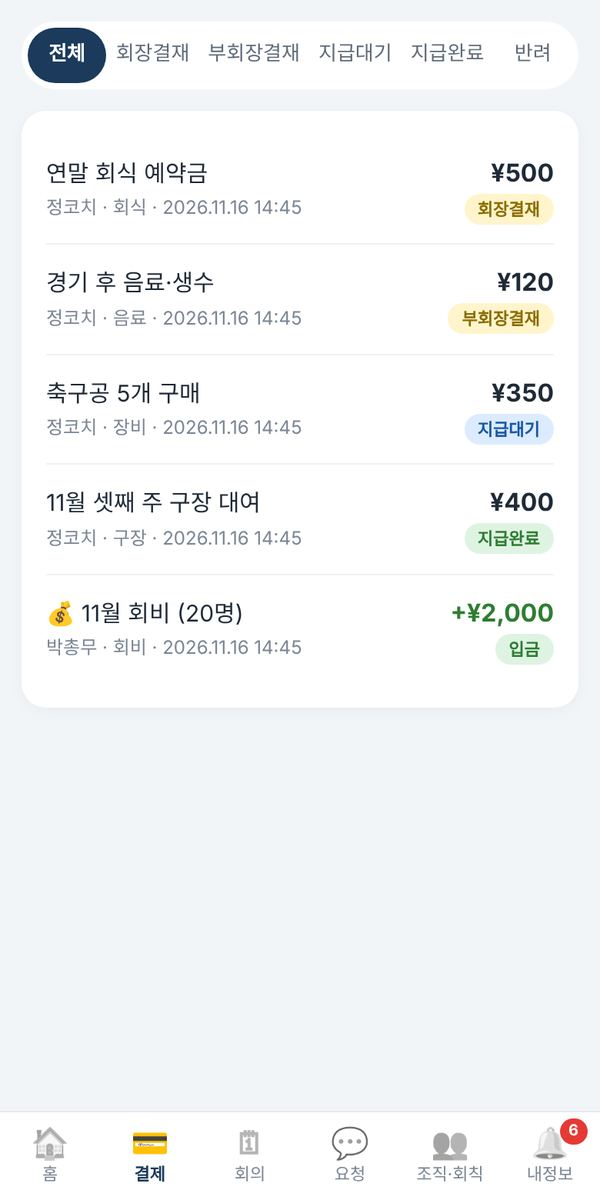
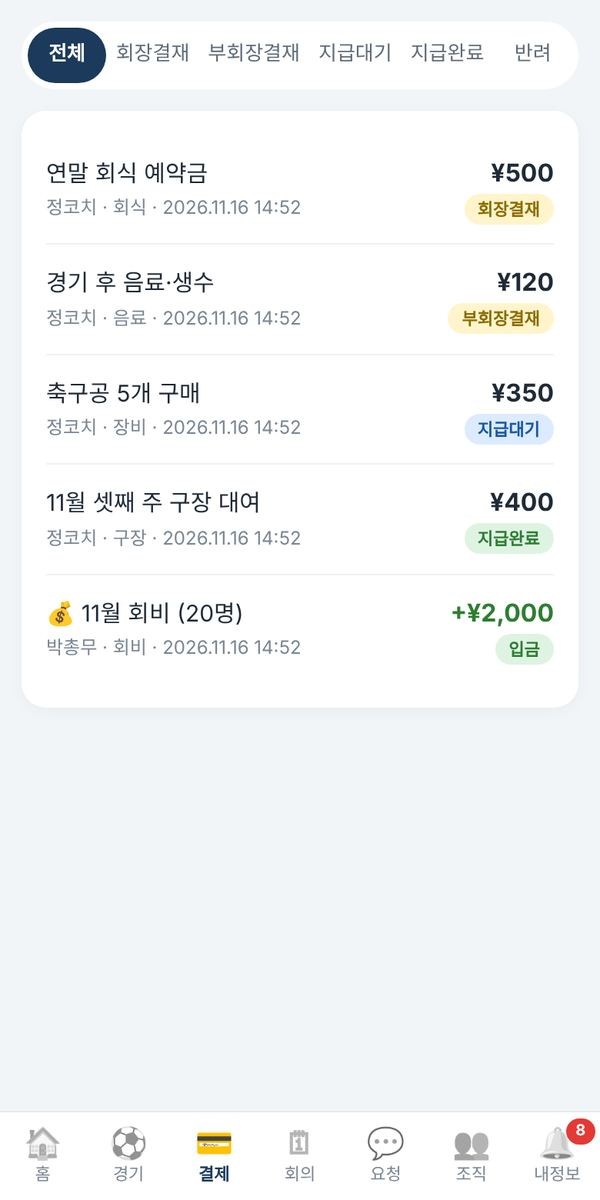
경기 일정·출석 체크, 고덕지도 위치 링크, 설명서 갱신
Claude-Session: https://claude.ai/code/session_015HE4XVwfqT5PtJWveADa8Y

diff --git a/index.html b/index.html
@@ -82,10 +82,11 @@ nav a.on{color:var(--navy);font-weight:700}nav a.on b{filter:none;opacity:1}
 <div id="app"></div>
 <nav id="nav" style="display:none"><div class="in">
   <a href="#/" data-t="home"><b>🏠</b>홈</a>
+  <a href="#/matches" data-t="match"><b>⚽</b>경기</a>
   <a href="#/pays" data-t="pay"><b>💳</b>결제</a>
   <a href="#/meets" data-t="meet"><b>🗓</b>회의</a>
   <a href="#/reqs" data-t="req"><b>💬</b>요청</a>
-  <a href="#/org" data-t="org"><b>👥</b>조직·회칙</a>
+  <a href="#/org" data-t="org"><b>👥</b>조직</a>
   <a href="#/me" data-t="me"><b>🔔</b>내정보<span class="badge" id="badge" style="display:none"></span></a>
 </div></nav>
 <div id="toast"></div>
@@ -100,7 +101,7 @@ const esc = s => String(s ?? '').replace(/[&<>"']/g, c => ({'&':'&amp;','<':'&lt
 const yen = n => '¥' + Number(n || 0).toLocaleString();
 const LS = { get(k){ try { return localStorage.getItem(k) } catch(e){ return null } },
              set(k,v){ try { v == null ? localStorage.removeItem(k) : localStorage.setItem(k,v) } catch(e){} } };
-const CLS = { 부회장검토:'wait', 회장결재:'wait', 부회장결재:'wait', 지급대기:'ok', 승인:'ok', 지급완료:'done', 반려:'no', 접수:'wait', 처리중:'ok', 완료:'done' };
+const CLS = { 참석:'done', 불참:'no', 미정:'wait', 부회장검토:'wait', 회장결재:'wait', 부회장결재:'wait', 지급대기:'ok', 승인:'ok', 지급완료:'done', 반려:'no', 접수:'wait', 처리중:'ok', 완료:'done' };
 const STAFF = ['회장','부회장','총무','감독','코치'];
 const isStaff = () => ME && STAFF.includes(ME.role);
 const tag = s => `<span class="tag t-${CLS[s]||'wait'}">${esc(s)}</span>`;
@@ -210,6 +211,10 @@ async function home(){
       <div class="hl">현재 잔액</div><div class="ht">${yen(h.income - h.spend)}</div>
       <div class="hr"><span>총 수입 ${yen(h.income)}</span><span>총 지출 ${yen(h.spend)}</span></div></div>
     ${h.notice ? card('📢 공지', `<div class="txt">${esc(h.notice)}</div>`) : ''}
+    ${h.next ? card('⚽ 다음 경기', `<a class="it" href="#/match/${h.next.id}"><div class="grow"><b>${esc(h.next.title)}${h.next.opponent ? ' vs ' + esc(h.next.opponent) : ''}</b>
+        <div class="sub">${fdt(h.next.starts_at)} · ${esc(h.next.venue || '구장 미정')} · ${esc(h.next.format)}</div>
+        <div class="sub">참석 <b style="color:${h.next.yes >= h.next.need ? '#2E7D32' : '#B3261E'}">${h.next.yes}</b> / 필요 ${h.next.need}명</div></div>
+        ${h.next.mine ? tag(h.next.mine) : '<span class="tag t-wait">출석 체크 ›</span>'}</a>`) : ''}
     ${h.polls.length ? card('🗳 진행 중인 투표', h.polls.map(v => `<a class="it" href="#/vote/${v.id}"><div class="grow">${esc(v.title)}${v.deadline ? `<div class="sub">마감 ${fdt(v.deadline)}</div>` : ''}</div>${v.voted ? '<span class="tag t-done">투표 완료</span>' : '<span class="tag t-wait">투표하기 ›</span>'}</a>`).join('')) : ''}
     ${h.todo.length ? card('✅ 내가 처리할 일', h.todo.map(t => `<a class="it" href="#/${t.kind}/${t.id}"><div class="grow">${esc(t.title)}</div>${tag(t.status)}</a>`).join('')) : ''}
     ${card('🗓 최근 확정 회의', h.meets.map(m => `<a class="it" href="#/meet/${m.id}"><div class="grow">${esc(m.title)}<div class="sub">${esc(m.mdate||'')}</div></div><span class="link">보기 ›</span></a>`).join('') || empty('아직 확정된 회의가 없습니다'))}
@@ -374,6 +379,81 @@ async function meetAct(id, act){
   await api('meetAct', { id, act, comment }); toast('처리 완료'); meetDetail(id);
 }
 
+// ───── 경기 일정 · 출석 체크 ─────
+const FORMATS = [['11인제',11],['9인제',9],['8인제',8],['7인제',7],['6인제',6],['5인제 (풋살)',5],['기타',0]];
+const WD = ['일','월','화','수','목','금','토'];
+const mapUrl = m => m.map_url || `https://uri.amap.com/search?keyword=${encodeURIComponent((m.venue + ' ' + (m.address||'')).trim())}&src=wxfc&callnative=1`;
+const dateBox = s => { const d = new Date(s); return `<div class="date"><div class="dm">${d.getMonth()+1}월 (${WD[d.getDay()]})</div><div class="dd">${d.getDate()}</div></div>` };
+const hm = s => { const d = new Date(s); return String(d.getHours()).padStart(2,'0') + ':' + String(d.getMinutes()).padStart(2,'0') };
+async function matchesPage(){
+  const r = await api('matches'), up = r.list.filter(m => !m.past), past = r.list.filter(m => m.past);
+  const row = m => `<a class="card" style="display:flex;gap:12px;align-items:center" href="#/match/${m.id}">${dateBox(m.starts_at)}
+      <div class="grow"><div style="font-weight:700">${esc(m.title)}${m.opponent ? ' vs ' + esc(m.opponent) : ''}</div>
+      <div class="sub">${hm(m.starts_at)} · ${esc(m.venue || '구장 미정')} · ${esc(m.format)}</div>
+      <div class="sub">참석 <b style="color:${m.yes >= m.need ? '#2E7D32' : '#B3261E'}">${m.yes}</b> / ${m.need}명</div></div>
+      ${m.mine ? tag(m.mine) : m.past ? '' : '<span class="tag t-wait">체크 ›</span>'}</a>`;
+  V(`${up.map(row).join('') || empty('예정된 경기가 없습니다')}
+    ${past.length ? `<div class="ct" style="margin:20px 4px 10px;color:#7A8694">지난 경기</div>${past.map(row).join('')}` : ''}
+    ${isStaff() ? '<div class="fabs"><a class="fab" href="#/match/new">+ 경기 등록</a></div>' : ''}`);
+}
+async function matchForm(id){
+  if(!isStaff()) { toast('운영진만 경기를 등록할 수 있습니다'); return location.replace('#/matches') }
+  const vs = (await api('matches')).venues;
+  const m = id ? (await api('match', { id:+id })).m : { title:'정기 경기', format:'11인제', need:11 };
+  const loc = s => { if(!s) return ''; const d = new Date(s); return new Date(d - d.getTimezoneOffset()*6e4).toISOString().slice(0,16) };
+  V(`<div class="card"><div class="ct">${id ? '✏ 경기 수정' : '⚽ 경기 등록'}</div>
+    <label>경기 이름</label><input id="gt" value="${esc(m.title)}" placeholder="예) 정기 경기, 친선전">
+    <label>상대팀 (선택)</label><input id="go" value="${esc(m.opponent||'')}" placeholder="예) ○○FC">
+    <label>날짜·시작 시간</label><input id="gs" type="datetime-local" value="${loc(m.starts_at)}">
+    <label>경기 방식</label><select id="gf">${FORMATS.map(([f]) => `<option ${m.format==f?'selected':''}>${f}</option>`).join('')}</select>
+    <label>필요 인원 (명)</label><input id="gn" type="number" inputmode="numeric" value="${m.need}">
+    <label>구장 이름</label><input id="gv" list="vl" value="${esc(m.venue||'')}" placeholder="예) ○○체육공원 축구장">
+    <datalist id="vl">${vs.map(v => `<option value="${esc(v.venue)}">`).join('')}</datalist>
+    <label>주소 (선택)</label><input id="ga" value="${esc(m.address||'')}" placeholder="예) ○○구 ○○로 123">
+    <label>고덕지도 공유 링크 (선택)</label><input id="gm" value="${esc(m.map_url||'')}" placeholder="고덕지도 앱 → 장소 → 공유 → 링크 복사">
+    <div class="hint" style="margin:-4px 0 10px">링크를 비워 두면 구장 이름·주소로 고덕지도에서 자동 검색됩니다.</div>
+    <label>출석 체크 마감 (선택, 비우면 경기 시작 때 마감)</label><input id="gd" type="datetime-local" value="${loc(m.deadline)}">
+    <label>메모 (선택)</label><textarea id="gx" style="min-height:80px" placeholder="예) 흰색·검은색 상의 준비, 8시 30분까지 도착">${esc(m.memo||'')}</textarea>
+    <button class="btn" id="gb">${id ? '수정 저장' : '등록하고 회원에게 알림'}</button></div>`);
+  $('#gf').onchange = e => { const f = FORMATS.find(x => x[0] == e.target.value); if(f && f[1]) $('#gn').value = f[1] };
+  $('#gv').onchange = e => { const v = vs.find(x => x.venue == e.target.value); if(v){ if(!$('#ga').value) $('#ga').value = v.address || ''; if(!$('#gm').value) $('#gm').value = v.map_url || '' } };
+  $('#gb').onclick = async e => {
+    const iso = v => v ? new Date(v).toISOString() : '';
+    if(!$('#gs').value) return toast('날짜·시간을 입력하세요');
+    e.target.disabled = true;
+    try { const r = await api('matchSave', { id: id || '', title:$('#gt').value.trim(), opponent:$('#go').value.trim(), starts_at:iso($('#gs').value),
+        format:$('#gf').value, need:$('#gn').value, venue:$('#gv').value.trim(), address:$('#ga').value.trim(), map_url:$('#gm').value.trim(),
+        deadline:iso($('#gd').value), memo:$('#gx').value });
+      toast(id ? '수정했습니다' : '경기를 등록했습니다'); location.replace('#/match/' + r.id) } catch(x){ e.target.disabled = false }
+  };
+}
+async function matchDetail(id){
+  const r = await api('match', { id:+id }), m = r.m;
+  if(!m) return V(empty('없는 경기입니다'));
+  const by = s => r.att.filter(a => a.status == s).map(a => a.name);
+  const yes = by('참석'), no = by('불참'), maybe = by('미정'), short = m.need - yes.length;
+  const d = new Date(m.starts_at), pc = m.need ? Math.min(100, Math.round(yes.length * 100 / m.need)) : 0;
+  const B = (s, c) => `<button class="btn ${r.mine == s ? c : 'b-ghost'}" style="flex:1;margin:0;${r.mine == s ? '' : 'opacity:.85'}" onclick="doAttend(${m.id},'${s}')">${r.mine == s ? '✅ ' : ''}${s}</button>`;
+  const chips = (t, a) => `<div class="sub" style="margin:10px 0 6px"><b>${t} ${a.length}명</b></div><div class="chips">${a.map(n => `<span class="chip">${esc(n)}</span>`).join('') || '<span class="sub">-</span>'}</div>`;
+  V(`<div class="hero"><div class="hs">${d.getFullYear()}.${d.getMonth()+1}.${d.getDate()} (${WD[d.getDay()]}) ${hm(m.starts_at)}</div>
+      <div class="ht" style="font-size:22px">${esc(m.title)}${m.opponent ? ' vs ' + esc(m.opponent) : ''}</div>
+      <div class="hr"><span>${esc(m.format)} · 필요 ${m.need}명</span><span>${m.open ? (m.deadline ? '마감 ' + fdt(m.deadline) : '경기 시작 때 마감') : '출석 마감'}</span></div></div>
+    ${card('📍 구장', `<div style="font-weight:700">${esc(m.venue || '구장 미정')}</div>${m.address ? `<div class="sub">${esc(m.address)}</div>` : ''}
+      ${m.venue || m.address || m.map_url ? `<a class="btn b-ghost" style="text-align:center" href="${esc(mapUrl(m))}" target="_blank">🗺 고덕지도에서 위치 보기</a>` : ''}
+      ${m.memo ? `<div class="txt" style="margin-top:12px;background:#FFF8E1;border-radius:10px;padding:10px 12px">📌 ${esc(m.memo)}</div>` : ''}`)}
+    <div class="card"><div class="ct"><span>✋ 출석 체크</span><span class="sub" style="margin:0">${r.mine ? '내 응답: ' + esc(r.mine) : '아직 응답 안 함'}</span></div>
+      ${m.open ? `<div style="display:flex;gap:8px">${B('참석','b-green')}${B('불참','b-red')}${B('미정','')}</div>` : '<div class="sub">출석 체크가 마감되었습니다</div>'}
+      <div style="margin-top:16px;background:#EEF1F4;border-radius:99px;height:12px;overflow:hidden"><div style="height:100%;width:${pc}%;background:${short > 0 ? '#FFC83D' : 'var(--green)'}"></div></div>
+      <div style="display:flex;justify-content:space-between;margin-top:6px;font-size:14px"><span>참석 <b>${yes.length}</b> / 필요 ${m.need}명</span>
+        <b style="color:${short > 0 ? '#B3261E' : '#2E7D32'}">${short > 0 ? short + '명 부족' : '인원 충족 ✅' + (short < 0 ? ' (+' + (-short) + ')' : '')}</b></div>
+      ${chips('✅ 참석', yes)}${chips('❌ 불참', no)}${chips('🤔 미정', maybe)}${chips('🙋 미응답', r.missing)}</div>
+    ${isStaff() ? `<div style="display:flex;gap:8px"><a class="btn b-ghost" style="flex:1;text-align:center" href="#/match/edit/${m.id}">✏ 수정</a><button class="btn b-red" style="flex:1" onclick="delMatch(${m.id})">삭제</button></div>` : ''}
+    <button class="btn" onclick="share(window._sh)">📤 출석 체크 링크 복사 (위챗에 공유)</button>`);
+  window._sh = `⚽ 출석 체크해 주세요: ${m.title}${m.opponent ? ' vs ' + m.opponent : ''}\n📅 ${d.getMonth()+1}/${d.getDate()}(${WD[d.getDay()]}) ${hm(m.starts_at)} · ${m.venue || ''} · ${m.format}\n현재 참석 ${yes.length}/${m.need}명`;
+}
+async function doAttend(id, s){ await api('attend', { id, status:s }); toast(s + '(으)로 체크했습니다'); matchDetail(id) }
+async function delMatch(id){ if(!confirm('이 경기를 삭제할까요? 출석 기록도 함께 지워집니다.')) return; await api('matchDel', { id }); toast('삭제했습니다'); location.hash = '#/matches' }
+
 // ───── 투표 (기명) ─────
 async function votePage(id){
   const r = await api('poll', { id:+id }), p = r.p;
@@ -495,6 +575,8 @@ const ROUTES = [
   [/^#?\/?$/, home, 'home'], [/^#\/pays$/, pays, 'pay'], [/^#\/pay\/new\/(in|out)$/, payNew, 'pay'], [/^#\/pay\/(\d+)$/, payDetail, 'pay'],
   [/^#\/meets$/, meets, 'meet'], [/^#\/meet\/new$/, meetNew, 'meet'], [/^#\/meet\/(\d+)$/, meetDetail, 'meet'],
   [/^#\/vote\/(\d+)$/, votePage, 'meet'],
+  [/^#\/matches$/, matchesPage, 'match'], [/^#\/match\/new$/, () => matchForm(), 'match'],
+  [/^#\/match\/edit\/(\d+)$/, matchForm, 'match'], [/^#\/match\/(\d+)$/, matchDetail, 'match'],
   [/^#\/reqs$/, reqsPage, 'req'], [/^#\/req\/(\d+)$/, reqsPage, 'req'],
   [/^#\/org$/, org, 'org'], [/^#\/me$/, mePage, 'me']
 ];

diff --git a/manual.html b/manual.html
@@ -48,6 +48,7 @@ code{background:#EEF3F8;padding:1px 6px;border-radius:6px;font-size:15px}
 <nav class="toc"><b>📚 차례</b>
   <a href="#s1">1. 처음 시작하기 (가입·로그인)</a>
   <a href="#s2">2. 홈 화면 보기</a>
+  <a href="#s2b">2-1. 경기 일정 · 출석 체크</a>
   <a href="#s3">3. 결제 (회장 → 부회장 → 총무)</a>
   <a href="#s4">4. 회의 안건과 회의록</a>
   <a href="#s4b">4-1. 투표 (기명)</a>
@@ -95,13 +96,39 @@ code{background:#EEF3F8;padding:1px 6px;border-radius:6px;font-size:15px}
   <h3>아래쪽 메뉴</h3>
   <table>
     <tr><th>🏠 홈</th><td>잔액·공지·할 일</td></tr>
+    <tr><th>⚽ 경기</th><td>경기 일정, 출석 체크</td></tr>
     <tr><th>💳 결제</th><td>돈을 쓴 내역 전체</td></tr>
     <tr><th>🗓 회의</th><td>회의 안건·회의록</td></tr>
     <tr><th>💬 요청</th><td>회원 건의·요청사항</td></tr>
-    <tr><th>👥 조직·회칙</th><td>운영진 명단, 회칙 파일</td></tr>
+    <tr><th>👥 조직</th><td>운영진 명단, 회칙 파일</td></tr>
     <tr><th>🔔 내정보</th><td>알림, 비밀번호 변경, (회장) 회원 관리</td></tr>
   </table>
   <div class="tip">🔔 빨간 숫자는 새 알림 개수입니다. <b>내정보</b>를 누르면 알림을 볼 수 있습니다.</div>
+</section>
+
+<section id="s2b">
+  <h2>2-1. 경기 일정 · 출석 체크</h2>
+  <span class="who">출석 체크: 모든 회원</span> <span class="who g">경기 등록: 운영진</span>
+  <figure><img src="manual/20-matches.jpg" alt="경기 목록" loading="lazy"><figcaption>[⚽ 경기] 메뉴 — 다가오는 경기와 참석 인원</figcaption></figure>
+  <h3>① 출석 체크하기 <span class="who">모든 회원</span></h3>
+  <ol>
+    <li>단톡방의 출석 체크 링크를 누르거나, <b>[⚽ 경기]</b> 메뉴에서 경기를 누릅니다.</li>
+    <li><b>[참석] [불참] [미정]</b> 중 하나를 누르면 끝입니다. 마감 전에는 바꿀 수 있습니다.</li>
+    <li><b>[🗺 고덕지도에서 위치 보기]</b>를 누르면 구장 위치가 고덕지도로 열립니다.</li>
+  </ol>
+  <figure><img src="manual/21-match.jpg" alt="경기 상세" loading="lazy"><figcaption>경기 화면 — 필요 인원 대비 참석 인원, 명단이 보입니다</figcaption></figure>
+  <div class="tip">출석 체크는 <b>경기 시작 시간</b>(또는 운영진이 정한 마감 시간)에 자동으로 닫힙니다.</div>
+  <h3>② 경기 등록하기 <span class="who g">운영진</span></h3>
+  <ol>
+    <li><b>[⚽ 경기]</b> → 오른쪽 아래 <b>[+ 경기 등록]</b></li>
+    <li>경기 이름, 상대팀, 날짜·시간을 적습니다.</li>
+    <li><b>경기 방식</b>(11인제·9인제 등)을 고르면 <b>필요 인원</b>이 자동으로 채워집니다. 필요하면 숫자를 고칩니다.</li>
+    <li><b>구장 이름</b>을 적습니다. 전에 쓴 구장은 목록에서 고르면 주소도 자동으로 채워집니다.</li>
+    <li>(선택) 고덕지도 앱에서 구장 → <b>공유 → 링크 복사</b> 후 <b>'고덕지도 공유 링크'</b> 칸에 붙여넣으면 정확한 위치가 열립니다. 비워 두면 구장 이름으로 검색됩니다.</li>
+    <li><b>[등록하고 회원에게 알림]</b> → 경기 화면의 <b>[📤 출석 체크 링크 복사]</b>로 단톡방에 공유합니다.</li>
+  </ol>
+  <figure><img src="manual/22-match-new.jpg" alt="경기 등록" loading="lazy"><figcaption>경기 등록 화면</figcaption></figure>
+  <div class="tip">경기 정보가 바뀌면 경기 화면의 <b>[✏ 수정]</b>. 이미 응답한 회원들에게 변경 알림이 갑니다.</div>
 </section>
 
 <section id="s3">
@@ -236,7 +263,8 @@ code{background:#EEF3F8;padding:1px 6px;border-radius:6px;font-size:15px}
     <tr><th></th><th>일반 회원</th><th>운영진</th></tr>
     <tr><td>모든 내역 보기</td><td>✅</td><td>✅</td></tr>
     <tr><td>요청사항 쓰기</td><td>✅</td><td>✅</td></tr>
-    <tr><td>투표하기</td><td>✅</td><td>✅</td></tr>
+    <tr><td>투표하기 · 출석 체크</td><td>✅</td><td>✅</td></tr>
+    <tr><td>경기 등록·수정</td><td>❌</td><td>✅</td></tr>
     <tr><td>투표 만들기·마감</td><td>❌</td><td>✅</td></tr>
     <tr><td>결제안·회의 안건 올리기</td><td>❌</td><td>✅</td></tr>
     <tr><td>결재</td><td>❌</td><td>회장·부회장</td></tr>
